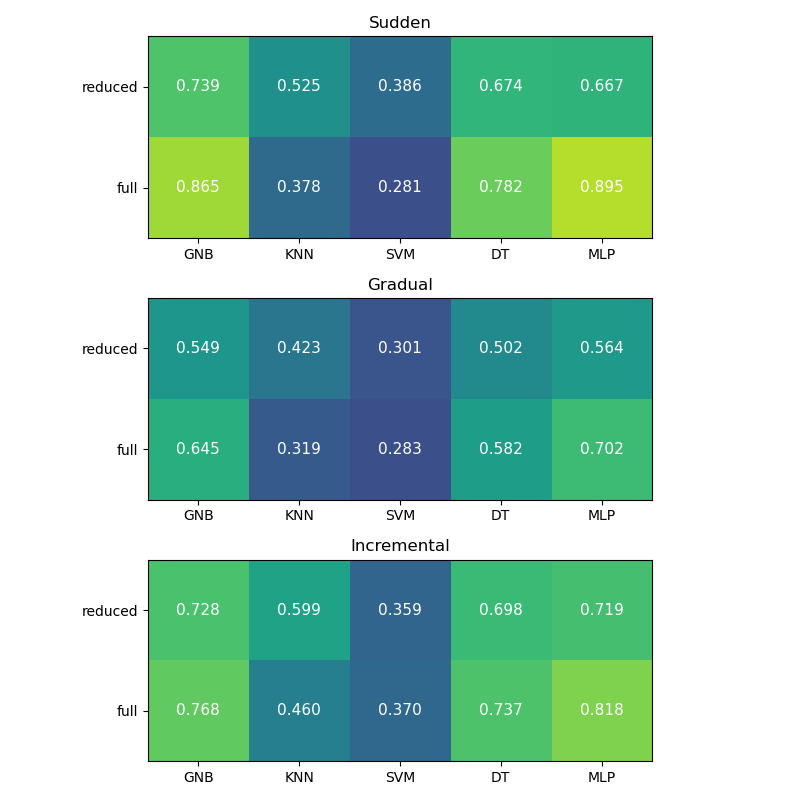
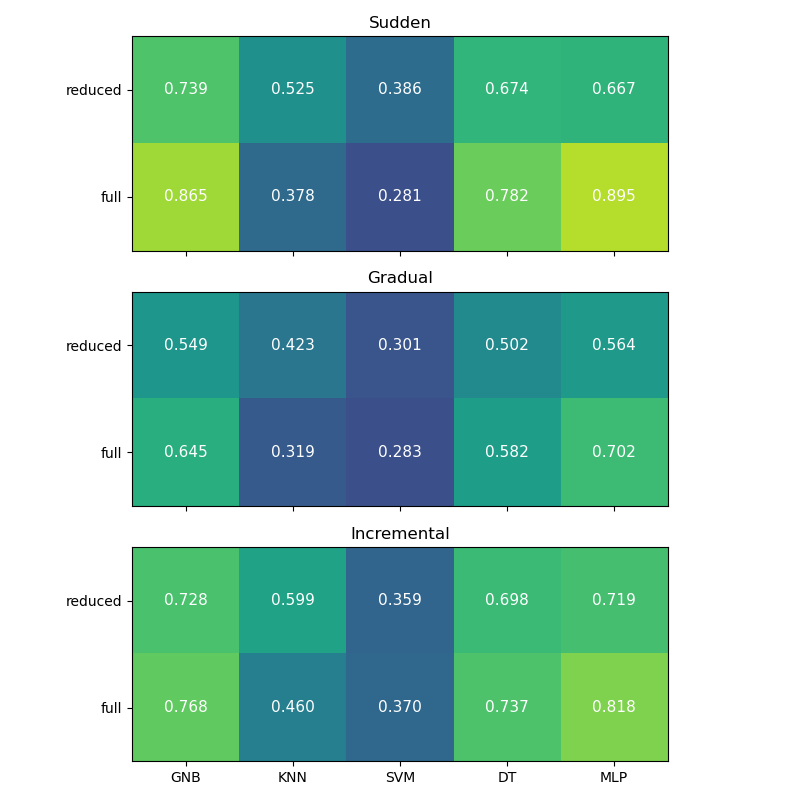
.

diff --git a/vis_selection_synthetic.py b/vis_selection_synthetic.py
@@ -94,7 +94,7 @@ print(reduced.shape) # 3, 5, 10, 5
 
 reduced_mean = np.mean(reduced, axis=(1,2))
 
-fig, ax = plt.subplots(3, 1, figsize=(8,8))
+fig, ax = plt.subplots(3, 1, figsize=(8,8), sharex=True, sharey=True)
     
 for drf_id, drift_type in enumerate(['Sudden', 'Gradual', 'Incremental']):    
     img = np.zeros((2,5))
@@ -114,3 +114,4 @@ for drf_id, drift_type in enumerate(['Sudden', 'Gradual', 'Incremental']):
 
 plt.tight_layout()
 plt.savefig('fig_clf/reduced_syn.png')
+plt.savefig('foo.png')
